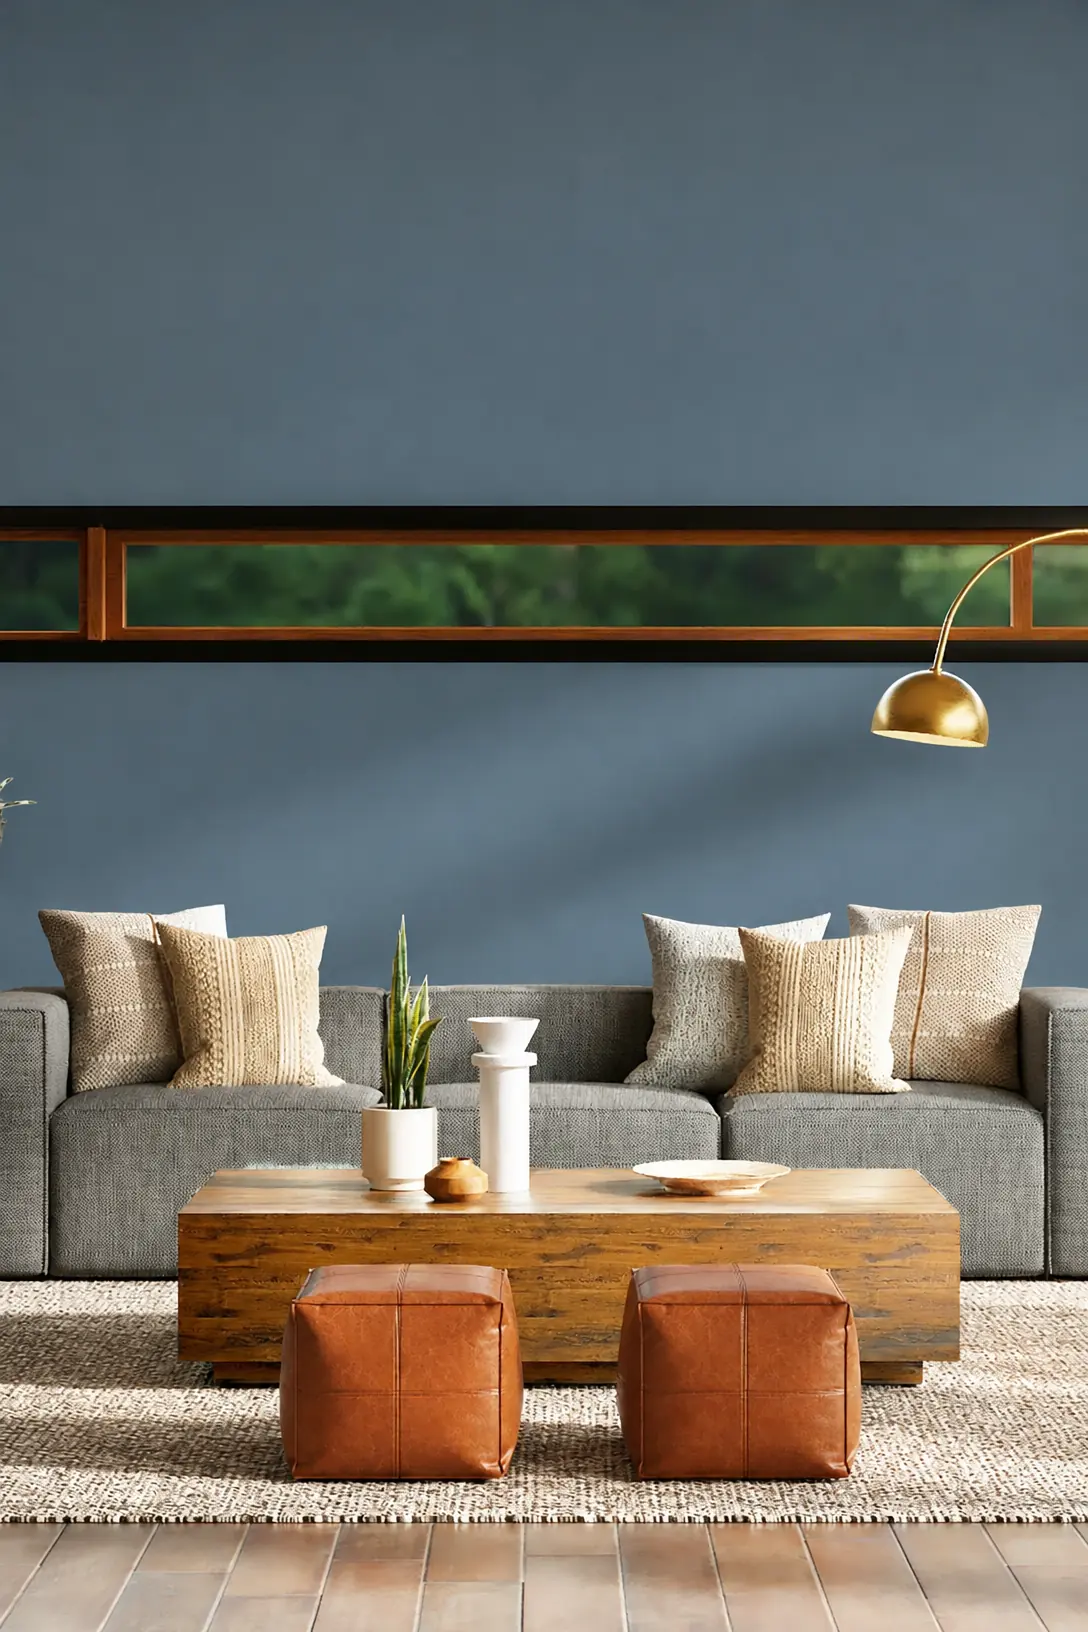
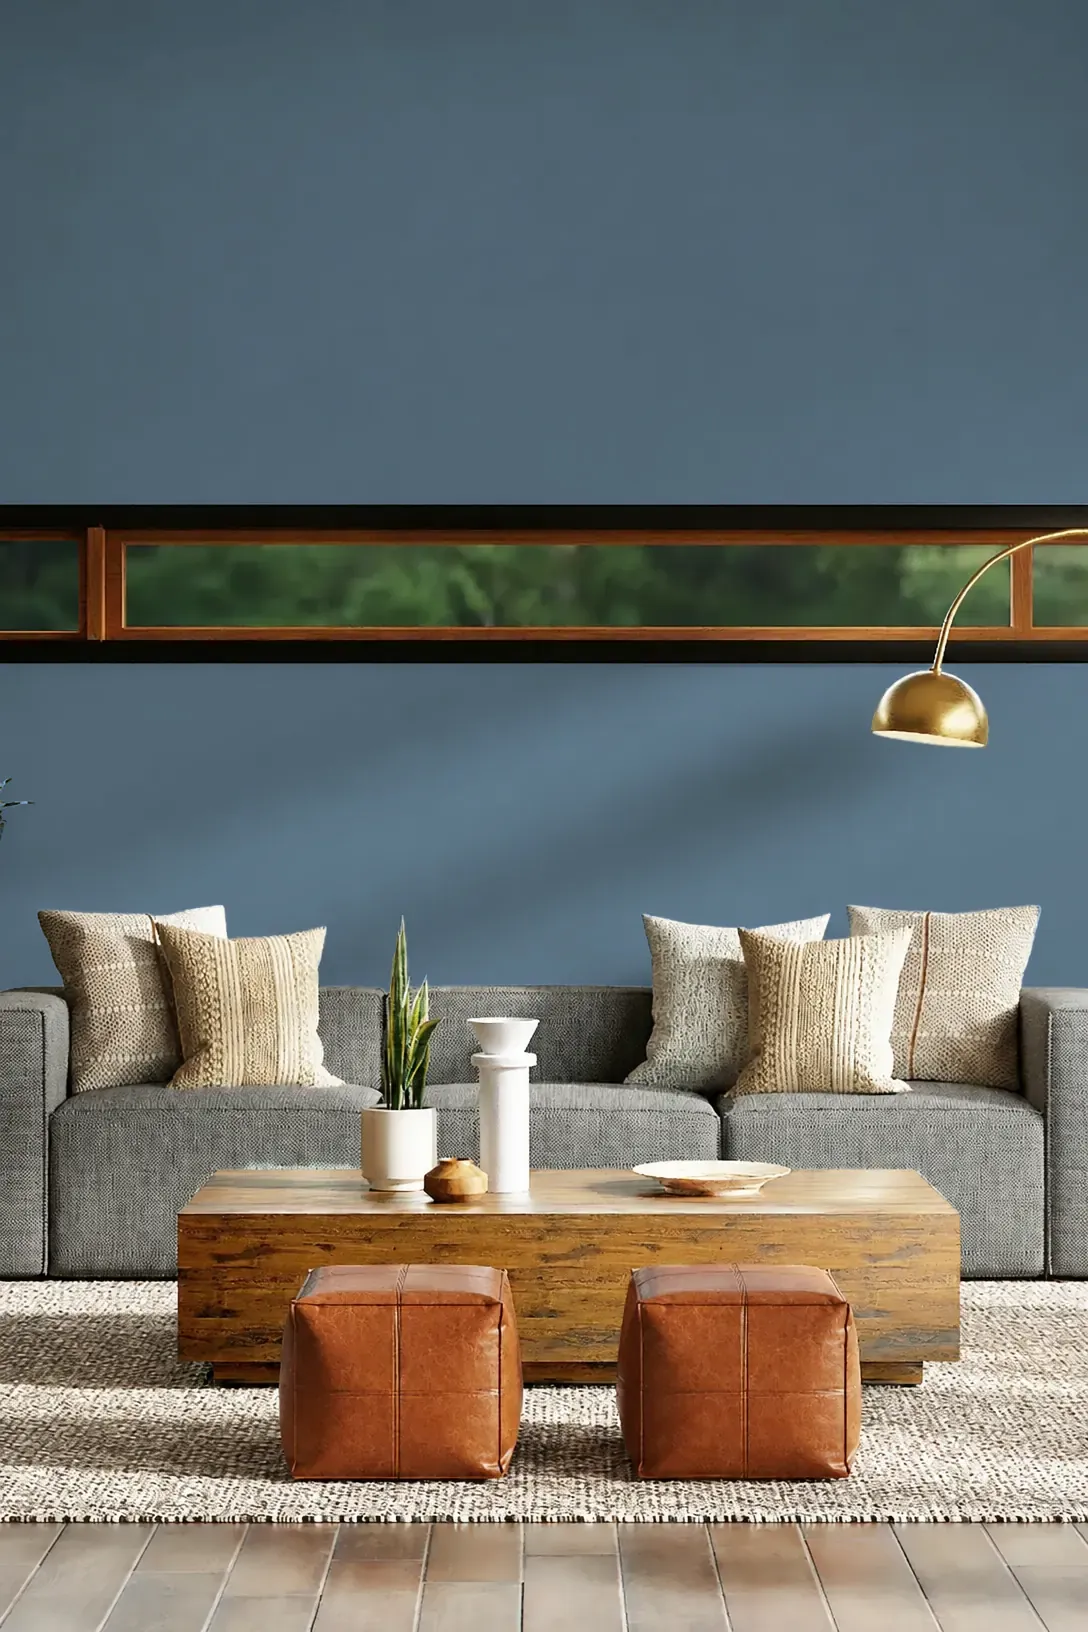
Schermata iniziale: cambia solo il colore del muro, senza arancio e senza etichetta
- le foto 2-6 sono la foto 1 con la sola parete ritinta (tools/stanza-pareti.js):
  luci, ombre e arredi restano fermi; i colori si cambiano senza AI
- tolta la luce arancione; la stanza sfuma nel nero e scende dietro il testo,
  con più muro sopra la finestra (contrasto delle scritte misurato, 6:1 o più)
- tolta l'etichetta con il nome del colore

diff --git a/index.html b/index.html
@@ -171,31 +171,32 @@ img{display:block}
 .actions .btn-quiet+.btn-primary{flex:1 1 0;width:auto;min-width:0}
 
 /* ── INTRO / ATTRACT ──
-   One room whose walls change colour: the same photo repainted by the AI in six
-   Colour Wall colours, each new coat coming down the wall, the pill naming it.
-   Below, the copy on the amber light. FinishDecor colours throughout. */
+   One room whose walls change colour: the same photo in six Colour Wall colours,
+   each new coat coming down the wall.
+   Below, the copy on black; the room comes down behind its first line, to the floor. */
 .screen-intro{padding:0 1.5rem max(1.75rem, var(--safe-b))}
+/* the room runs on 7rem behind the copy: lower in the frame, so more wall shows above the
+   window, and the rug's edge and the floor slip behind the title. It fades out in its last
+   13rem, dark enough behind the welcome line for small text (6:1 or more, measured) */
 .room{
-  position:relative;flex:1 1 auto;min-height:0;margin:0 -1.5rem;overflow:hidden;
-  --fade:linear-gradient(to bottom,#000 0%,#000 46%,rgba(0,0,0,0.86) 58%,rgba(0,0,0,0.6) 70%,rgba(0,0,0,0.32) 81%,rgba(0,0,0,0.12) 91%,transparent 100%);
+  position:relative;flex:1 1 auto;min-height:0;margin:0 -1.5rem -7rem;overflow:hidden;
+  --fade:linear-gradient(to bottom,#000 0%,#000 calc(100% - 13rem),rgba(0,0,0,0.8) calc(100% - 10rem),rgba(0,0,0,0.5) calc(100% - 8.5rem),rgba(0,0,0,0.3) calc(100% - 7rem),rgba(0,0,0,0.18) calc(100% - 5.5rem),rgba(0,0,0,0.08) calc(100% - 3.5rem),transparent 100%);
   -webkit-mask-image:var(--fade);mask-image:var(--fade);
 }
-/* the room twice, one over the other: the next colour comes down the wall like a coat of paint */
-.room img{position:absolute;inset:0;width:100%;height:100%;object-fit:cover;object-position:50% 72%;clip-path:inset(0 0 100% 0)}
+/* the room twice, one over the other: the next colour comes down the wall like a coat of paint.
+   Pinned to the bottom: the floor is the photo's last strip */
+.room img{position:absolute;inset:0;width:100%;height:100%;object-fit:cover;object-position:50% 100%;clip-path:inset(0 0 100% 0)}
 .room img.in{clip-path:inset(0);transition:clip-path 1.8s cubic-bezier(.65,0,.35,1)}
 /* the logo sits on the photo; a soft dark veil from the top keeps it readable */
 .room::before{
   content:'';position:absolute;inset:0 0 auto;height:32%;z-index:3;pointer-events:none;
   background:linear-gradient(to bottom,rgba(18,18,18,0.82) 0%,rgba(18,18,18,0.5) 40%,rgba(18,18,18,0.16) 75%,transparent 100%);
 }
-.room-tag{position:absolute;z-index:4;left:1.5rem;top:calc(var(--safe-t) + 5.5rem);display:inline-flex;align-items:center;gap:0.625rem;padding:0.4375rem 1rem 0.4375rem 0.4375rem;border-radius:999px;background:var(--glass);border:1px solid var(--glass-line);-webkit-backdrop-filter:blur(14px);backdrop-filter:blur(14px);font-size:0.9375rem;font-weight:500;line-height:1.2}
-.room-tag i{width:1.75rem;height:1.75rem;border-radius:50%;box-shadow:inset 0 0 0 1.5px rgba(255,255,255,0.85);transition:background .6s}
-.room-tag small{font-size:0.8125rem;font-weight:400;color:var(--label-2)}
 .intro-logo{position:absolute;z-index:2;top:calc(var(--safe-t) + 1.5rem);left:50%;transform:translateX(-50%);height:2.25rem;width:auto}
-/* the reference's light, in FinishDecor yellows only: brightest in the
-   bottom-right corner, falling through the brand amber and deeper ochres into
-   black towards the top-left. Blurred so it reads as light, not as stripes,
-   and masked at the top so it rises into the photo. */
+/* behind the glass palette cards, a quiet light in FinishDecor yellows only:
+   brightest in the bottom-right corner, falling through the brand amber and deeper
+   ochres into black towards the top-left. Blurred so it reads as light, not as
+   stripes, and masked at the top. The welcome has none: its room fades into black. */
 .intro-glow{
   position:absolute;left:-10%;right:-10%;bottom:-6%;height:84%;z-index:-1;pointer-events:none;
   background:
@@ -205,7 +206,6 @@ img{display:block}
   -webkit-mask-image:linear-gradient(to bottom,transparent 0%,#000 32%);
   mask-image:linear-gradient(to bottom,transparent 0%,#000 32%);
 }
-/* the same warm light, quieter, behind the glass palette cards */
 .intro-glow.soft{opacity:0.45}
 .intro-meta,.intro-text,.intro-kicker{text-shadow:0 1px 12px rgba(0,0,0,0.28)}
 .intro-copy{position:relative;z-index:1}
@@ -791,9 +791,7 @@ img{display:block}
     <img class="intro-logo" src="logo-wordmark.webp" alt="FinishDecor" width="300" height="70">
     <div class="room" aria-hidden="true">
       <img id="room-a" class="in" alt=""><img id="room-b" alt="">
-      <p class="room-tag"><i id="room-dot"></i><span id="room-name"></span><small>Colour Wall Sikkens</small></p>
     </div>
-    <div class="intro-glow" aria-hidden="true"></div>
     <div class="intro-copy">
       <p class="intro-kicker">Benvenuto</p>
       <h2 class="intro-title">Il tuo stile, prima ancora del colore</h2>
@@ -1359,14 +1357,14 @@ function go(next) {
 }
 
 // ── 0 · INTRO: ONE ROOM, REPAINTED ──
-// The same room in six Colour Wall colours, repainted once by the AI (the room try,
-// api/repaint.js) and saved in assets/stanza/<n>.webp, in this order.
+// The same room in six Colour Wall colours, saved in assets/stanza/<n>.webp, in this order:
+// photo 1 from the AI (the room try, api/repaint.js), the others photo 1 with only the wall
+// re-tinted by tools/stanza-pareti.js, so the light and the furniture never move.
 const ROOM = [['Mild Sage', '#A3A793'], ['Mild Peony', '#C4A3AC'], ['Real Indigo', '#5A7589'], ['Mild Sienna', '#C57861'], ['Lush Forest', '#4E786E'], ['Real Olive', '#C8B079']];
 {
   const src = k => `assets/stanza/${k + 1}.webp`;
   let k = 0, top = $('room-a'), under = $('room-b');
-  const label = () => { $('room-dot').style.background = ROOM[k][1]; $('room-name').textContent = ROOM[k][0]; };
-  top.src = src(0); label();
+  top.src = src(0);
   ROOM.forEach((_, i) => { new Image().src = src(i); });   // all six in the cache before the first coat
   setInterval(() => {
     if (step !== 'intro' || document.hidden) return;
@@ -1377,7 +1375,7 @@ const ROOM = [['Mild Sage', '#A3A793'], ['Mild Peony', '#C4A3AC'], ['Real Indigo
     top.decode().catch(() => {}).then(() => {
       top.style.zIndex = 2; under.style.zIndex = 1;
       void top.offsetWidth;   // start from the clipped state, or the coat would not run
-      top.classList.add('in'); label();
+      top.classList.add('in');
     });
   }, 5000);
 }

diff --git a/tools/stanza-pareti.js b/tools/stanza-pareti.js
@@ -1,0 +1,97 @@
+// Rifà le foto della schermata iniziale (assets/stanza/2.webp … 6.webp) perché cambi solo la parete.
+//
+// Come si usa: avviate l'app (node dev-server.mjs, http://localhost:8137), aprite la console
+// del browser (F12), incollate tutto questo file e premete Invio. Dopo qualche secondo scarica
+// 2.webp … 6.webp: copiateli in assets/stanza/ al posto di quelli che ci sono. La foto 1 non cambia.
+//
+// Perché: le sei foto le aveva fatte l'AI della prova sulla stanza, una per colore, e l'AI
+// ridisegna tutta l'immagine: con la parete cambiavano anche luci, ombre, pavimento e divano.
+// Il metodo:
+// 1. la parete è dove le sei foto hanno colori diversi: a* o b* (CIELAB) che tra una foto e
+//    l'altra si spostano di più di 14. Fuori dalla parete si spostano meno di 15, sulla parete
+//    più di 30: la soglia cade nel vuoto in mezzo;
+// 2. tolti i pezzi piccoli (riflessi, puntini) e riempiti i buchi piccoli dentro la parete;
+// 3. tenuto solo ciò che nella foto 1 ha il colore della pittura (a* e b* divisi per L*+16, che
+//    per la stessa pittura non cambiano tra luce e ombra): foglie e oggetti davanti al muro restano;
+// 4. sulla parete la foto 1 viene ritinta, in luce lineare, per il rapporto tra il colore k e il
+//    colore 1 della lista ROOM (index.html): stessa luce, stesse ombre, altra pittura.
+// Per cambiare un colore basta cambiarlo in ROOM e rifare le foto qui: non serve l'AI.
+(async () => {
+  const N = ROOM.length, SWING = 14, D1 = 0.07, D2 = 0.14;
+  const imgs = await Promise.all(ROOM.map(async (_, k) => { const im = new Image(); im.src = `assets/stanza/${k + 1}.webp`; await im.decode(); return im; }));
+  const W = imgs[0].naturalWidth, H = imgs[0].naturalHeight, P = W * H;
+  const cv = document.createElement('canvas'); cv.width = W; cv.height = H;
+  const cx = cv.getContext('2d', { willReadFrequently: true });
+  const LIN = Float32Array.from({ length: 256 }, (_, v) => (v /= 255) <= 0.04045 ? v / 12.92 : ((v + 0.055) / 1.055) ** 2.4);
+  const SRGB = Uint8ClampedArray.from({ length: 4096 }, (_, i) => { const v = i / 4095; return 255 * (v <= 0.0031308 ? 12.92 * v : 1.055 * v ** (1 / 2.4) - 0.055); });
+  const f = t => t > 0.008856 ? Math.cbrt(t) : 7.787 * t + 16 / 116;
+
+  // 1 · how far a* and b* move across the six photos; photo 1's chromaticity on the side
+  const loA = new Float32Array(P).fill(Infinity), hiA = new Float32Array(P).fill(-Infinity);
+  const loB = new Float32Array(P).fill(Infinity), hiB = new Float32Array(P).fill(-Infinity);
+  const cu = new Float32Array(P), cw = new Float32Array(P);
+  let base;
+  imgs.forEach((im, k) => {
+    cx.drawImage(im, 0, 0);
+    const px = cx.getImageData(0, 0, W, H), d = px.data;
+    if (!k) base = px;
+    for (let i = 0; i < P; i++) {
+      const r = LIN[d[4 * i]], g = LIN[d[4 * i + 1]], b = LIN[d[4 * i + 2]];
+      const fx = f((0.4124 * r + 0.3576 * g + 0.1805 * b) / 0.95047), fy = f(0.2126 * r + 0.7152 * g + 0.0722 * b), fz = f((0.0193 * r + 0.1192 * g + 0.9505 * b) / 1.08883);
+      const A = 500 * (fx - fy), B = 200 * (fy - fz);
+      if (A < loA[i]) loA[i] = A; if (A > hiA[i]) hiA[i] = A;
+      if (B < loB[i]) loB[i] = B; if (B > hiB[i]) hiB[i] = B;
+      if (!k) { cu[i] = A / (116 * fy); cw[i] = B / (116 * fy); }   // 116·fy = L* + 16
+    }
+  });
+  const wall = new Uint8Array(P);
+  for (let i = 0; i < P; i++) wall[i] = Math.max(hiA[i] - loA[i], hiB[i] - loB[i]) > SWING ? 1 : 0;
+
+  // 2 · connected patches of value v smaller than min change side
+  const q = new Int32Array(P);
+  const flipSmall = (v, min) => {
+    const seen = new Uint8Array(P);
+    for (let s = 0; s < P; s++) {
+      if (seen[s] || wall[s] !== v) continue;
+      let h = 0, t = 0; q[t++] = s; seen[s] = 1;
+      while (h < t) {
+        const i = q[h++], x = i % W;
+        for (const j of [x > 0 ? i - 1 : -1, x < W - 1 ? i + 1 : -1, i - W, i + W]) if (j >= 0 && j < P && !seen[j] && wall[j] === v) { seen[j] = 1; q[t++] = j; }
+      }
+      if (t < min) for (let n = 0; n < t; n++) wall[q[n]] = 1 - v;
+    }
+  };
+  flipSmall(1, P * 0.005);    // reflections on the table and the lamp, specks
+  flipSmall(0, P * 0.0005);   // small dark spots inside the wall
+  const share = wall.reduce((a, v) => a + v, 0) / P;
+  console.assert(share > 0.2 && share < 0.8, 'parete trovata su una parte strana della foto', share);
+
+  // 3 · a soft edge (box blur, radius 1, twice), then only what has the paint's chromaticity in photo 1
+  const soft = Float32Array.from(wall), tmp = new Float32Array(P);
+  for (let n = 0; n < 2; n++) {
+    for (let i = 0; i < P; i++) { const x = i % W; tmp[i] = (soft[x ? i - 1 : i] + soft[i] + soft[x < W - 1 ? i + 1 : i]) / 3; }
+    for (let i = 0; i < P; i++) soft[i] = (tmp[i >= W ? i - W : i] + tmp[i] + tmp[i + W < P ? i + W : i]) / 3;
+  }
+  const us = [], ws = [];
+  for (let i = 0; i < P; i += 7) if (wall[i]) { us.push(cu[i]); ws.push(cw[i]); }
+  const median = a => a.sort((x, y) => x - y)[a.length >> 1], mu = median(us), mw = median(ws);
+  for (let i = 0; i < P; i++) {
+    const t = Math.min(1, Math.max(0, (Math.hypot(cu[i] - mu, cw[i] - mw) - D1) / (D2 - D1)));
+    soft[i] *= 1 - t * t * (3 - 2 * t);
+  }
+
+  // 4 · photo 1 re-tinted on the wall by the ratio of the two paints, in linear light
+  const lin = h => [1, 3, 5].map(j => LIN[parseInt(h.slice(j, j + 2), 16)]), c1 = lin(ROOM[0][1]), out = [];
+  for (let k = 1; k < N; k++) {
+    const ratio = lin(ROOM[k][1]).map((v, j) => v / c1[j]), o = new ImageData(W, H), od = o.data, bd = base.data;
+    for (let i = 0; i < P; i++) {
+      for (let j = 0; j < 3; j++) od[4 * i + j] = SRGB[Math.min(4095, Math.round(LIN[bd[4 * i + j]] * (1 + soft[i] * (ratio[j] - 1)) * 4095))];
+      od[4 * i + 3] = 255;
+    }
+    cx.putImageData(o, 0, 0);
+    out.push([`${k + 1}.webp`, cv.toDataURL('image/webp', 0.8)]);
+  }
+  out.forEach(([name, href]) => Object.assign(document.createElement('a'), { href, download: name }).click());
+  console.log(`Parete: ${Math.round(share * 100)}% della foto. Scaricate ${out.map(o => o[0]).join(', ')}.`);
+  return Object.fromEntries(out);
+})();

diff --git a/README.md b/README.md
@@ -14,7 +14,7 @@ Un solo percorso. Se nello showroom ci sono due schermi, mostrano la stessa cosa
 
 | Fase | Cosa fa il cliente | Cosa raccoglie il sistema |
 |---|---|---|
-| 0 · Attract | Vede una stanza che cambia colore: ogni 5 secondi una nuova mano scende sulla parete, con il nome del colore della Colour Wall. Tocca un punto qualsiasi dello schermo (o "Inizia") | — |
+| 0 · Attract | Vede una stanza che cambia colore: ogni 5 secondi una nuova mano scende sulla parete, in un altro colore della Colour Wall. Tocca un punto qualsiasi dello schermo (o "Inizia") | — |
 | 1 · Ambiente | Sceglie lo spazio da una griglia alta quanto lo schermo: casa, hotel, ristorante, negozio, ufficio, business, wellness | la tipologia: decide le foto delle fasi 2 e 3 e cosa disegna l'AI |
 | 2 · Esplora | Prima una schermata spiega che dalle risposte nasce il suo profilo e mostra le tre risposte con i gesti; poi 16 immagini: le 8 della tipologia scelta alternate a 8 ispirazioni comuni (paesaggi, arte, architettura, materia). "Non fa per me", "Mi incuriosisce" o "Mi rappresenta", anche trascinando (sinistra, su, destra). "Annulla" riporta l'ultima foto | −1 / +1 / +3 ai linguaggi di ogni immagine |
 | 3 · Scegli | 6 confronti A oppure B, diversi per ogni tipologia. "Annulla" riporta l'ultimo confronto (dal primo, l'ultima foto di Esplora) | +3 ai linguaggi dell'ambiente scelto |
@@ -195,7 +195,7 @@ con i colori dell'app al posto della Colour Wall (il catalogo non si può legger
 
 Il resto è in `index.html`, nello script:
 
-- `ROOM` e `assets/stanza/` — la stanza della schermata iniziale: la stessa foto ridipinta una volta sola con l'AI della prova sulla stanza (`api/repaint.js`), un'immagine per colore, nello stesso ordine della lista.
+- `ROOM` e `assets/stanza/` — la stanza della schermata iniziale, un'immagine per colore, nello stesso ordine della lista. La foto 1 l'ha fatta l'AI della prova sulla stanza (`api/repaint.js`); le altre sono la stessa foto con la sola parete ritinta da `tools/stanza-pareti.js`, così luci, ombre e arredi restano identici e cambia solo il colore del muro. Per cambiare un colore: cambiatelo in `ROOM` e rifate le foto con quel file (istruzioni in testa), senza AI.
 - `ARCH` — i sette linguaggi: nome e descrizione. Le loro palette di 5 colori (base, supporto, accento, profondità, dettaglio) le compone la pagina dalla Colour Wall; quelle scritte qui valgono solo se il catalogo non si legge (pagina aperta da file).
 - `LANG_RULES` e `compose` — le regole dei linguaggi e delle palette (vedi "Il profilo: cosa è misurato").
 - `PRODUCTS` — le finiture suggerite per ogni linguaggio.
